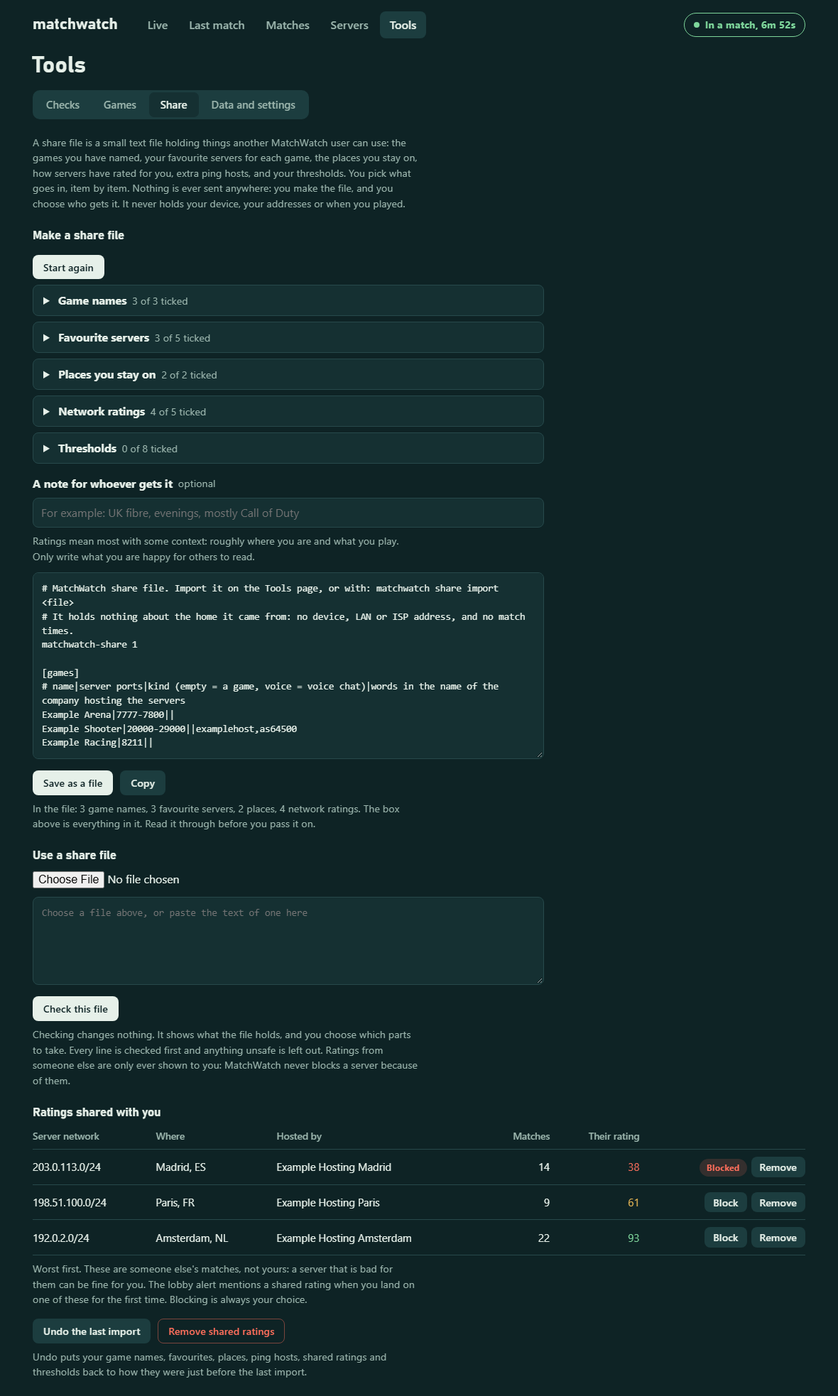
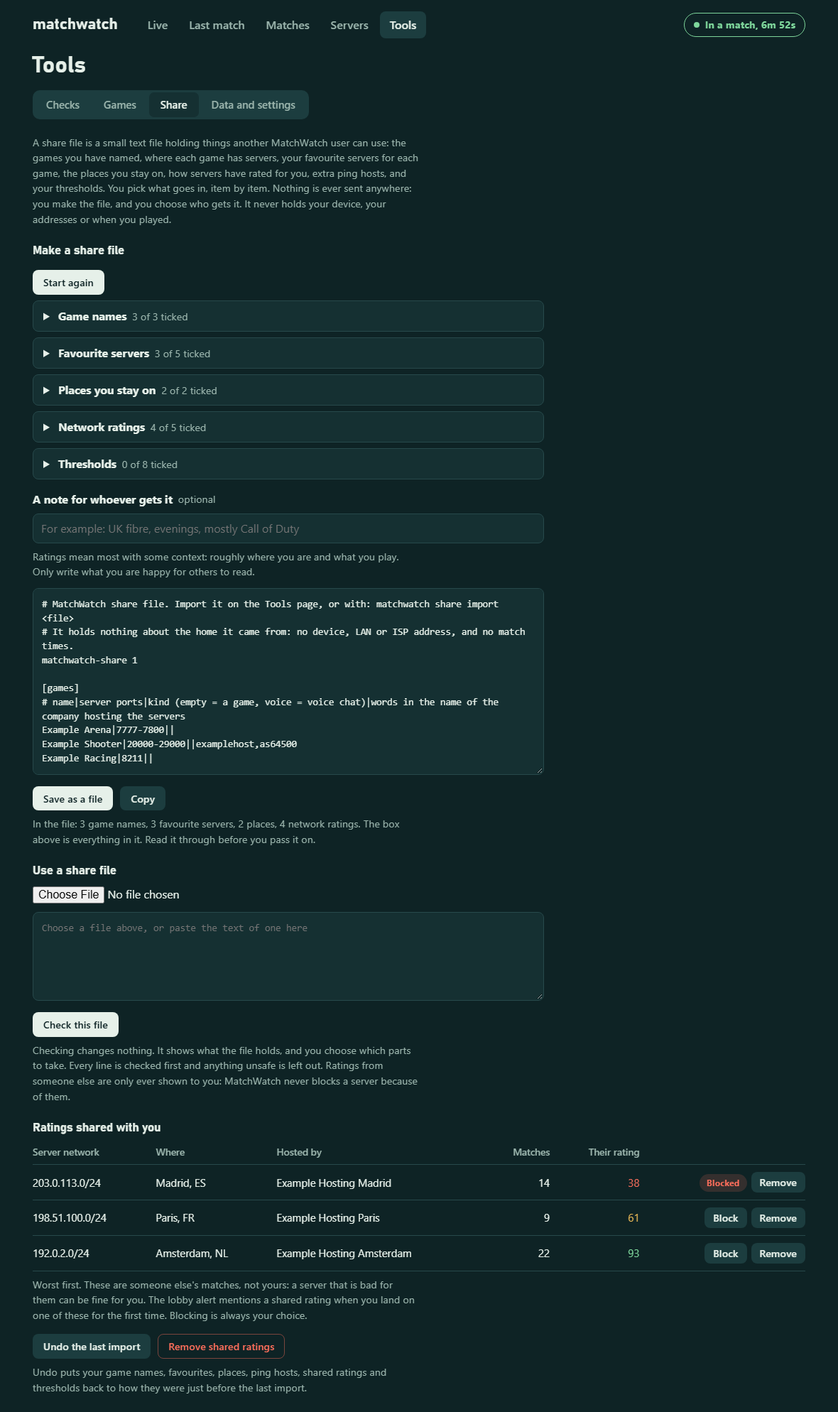
0.21.0: where each game plays, learned and shareable
MatchWatch keeps a list of the places and server networks each game uses,
from matches and from servers a game reaches for. The Servers page shows it,
stay mode warns when a game has nothing known in the pool, and share files
carry it as a new section. Shared entries inform only. The match history is
kept to its newest 5000 matches.

diff --git a/luci-app-matchwatch/htdocs/luci-static/resources/matchwatch/dashboard.js b/luci-app-matchwatch/htdocs/luci-static/resources/matchwatch/dashboard.js
@@ -20,7 +20,7 @@ shadow.appendChild(sheet); shadow.appendChild(wrap);
 var RO = !!T.readonly;
 function setDark() { wrap.classList.toggle("dark", T.dark ? !!T.dark() : !!(window.matchMedia && matchMedia("(prefers-color-scheme: dark)").matches)); }
 setDark(); sheet.addEventListener("load", function () { setDark(); updateLive(); });
-var D = { st: null, hist: [], servers: [], dcs: [], blocks: [], info: {}, lobby: null, regions: [], favs: [], favInfo: {} };
+var D = { st: null, hist: [], servers: [], dcs: [], blocks: [], info: {}, lobby: null, regions: [], favs: [], favInfo: {}, gp: [] };
 var page = "", pageArg = "", armed = 0, view = shadow.getElementById("view");
 
 // ---------- small helpers
@@ -216,6 +216,48 @@ function namePrompt(redraw) {
 		box.appendChild(bn);
 	});
 	return box;
+}
+
+// ---------- where each game plays: learned from your matches, from servers the game tried, and from share files
+var gpGame = "", gpAll = false;
+function gamePlacesSection() {
+	var box = h("div");
+	box.appendChild(h("h2", "Where each game plays"));
+	var rows = D.gp || [];
+	if (!rows.length) { box.appendChild(h("p", { cls: "empty", text: "Nothing learned yet. Each match, and each server a game tries, adds to this. Share files from other players add the rest of the world." })); return box; }
+	var games = []; rows.forEach(function (r) { if (games.indexOf(r.game) < 0) games.push(r.game); }); games.sort();
+	if (games.indexOf(gpGame) < 0) gpGame = "";
+	var staying = (D.info.stays || []).length > 0;
+	if (games.length > 1) {
+		var sel = h("select", { "aria-label": "Show one game" }); sel.appendChild(h("option", { value: "", text: "Every game" }));
+		games.forEach(function (g) { var o = h("option", { value: g, text: g }); if (g === gpGame) o.selected = true; sel.appendChild(o); });
+		sel.addEventListener("change", function () { var y = window.scrollY; gpGame = sel.value; gpAll = false; pageServers(); window.scrollTo(0, y); });
+		box.appendChild(h("div", { cls: "stayform" }, sel));
+	}
+	var list = rows.filter(function (r) { return !gpGame || r.game === gpGame; }).sort(function (a, b) { return a.game < b.game ? -1 : a.game > b.game ? 1 : (b.matches - a.matches) || (b.networks - a.networks); });
+	var heads = [["Game"], ["Where"], ["Hosted by"], ["Server networks", "num"], ["Matches", "num"], ["Rating", "num"], ["Known from"]];
+	if (staying) heads.push(["In your places"]);
+	var t = table(heads);
+	(gpAll ? list : list.slice(0, 12)).forEach(function (r) {
+		var net = h("td", { cls: "num", text: String(r.networks) }); net.title = (r.nets || []).join(", ") + (r.networks > (r.nets || []).length ? " and more" : "");
+		var cells = [[r.game], [place(r) || "Place not known"], [r.org || ""], net, [r.matches ? String(r.matches) : "", "num"], [r.rating == null ? "" : String(r.rating), "num s " + cls(r.rating)], [r.mine ? (r.matches ? "Your matches" : "Tried by the game") : "Shared with you"]];
+		if (staying) cells.push([r.in == null ? "Not known" : r.in ? "Yes" : "No"]);
+		t.lastChild.appendChild(row(cells));
+	});
+	box.appendChild(h("div", { cls: "tablewrap" }, t));
+	var btns = h("div", { cls: "actions" });
+	if (list.length > 12) { var more = h("button", { type: "button", text: gpAll ? "Show fewer" : "Show all " + list.length }); more.addEventListener("click", function () { var y = window.scrollY; gpAll = !gpAll; pageServers(); window.scrollTo(0, y); }); btns.appendChild(more); }
+	if (rows.some(function (r) { return !r.mine; })) btns.appendChild(act("Remove what others shared", "shareforgetgs", null, { danger: true, confirm: "Confirm: remove shared game servers" }));
+	if (btns.childNodes.length) box.appendChild(btns);
+	box.appendChild(h("p", { cls: "note", text: "One row per game and place. A server network is a block of 256 addresses; hover the number to see them. Your own router only learns the places a game offers you, which are mostly near home. To learn the rest of the world, take in share files from players elsewhere, and pass yours on from Tools, Share." }));
+	return box;
+}
+// for a game with no published host list: is anything known for it inside the places being stayed on?
+function gameCoverNotes() {
+	var by = {}, out = [];
+	(D.gp || []).forEach(function (r) { var g = by[r.game] || (by[r.game] = { inn: 0, places: [] }); if (r.in) g.inn++; else { var p = place(r); if (p && g.places.indexOf(p) < 0) g.places.push(p); } });
+	Object.keys(by).sort().forEach(function (g) { if (!by[g].inn && by[g].places.length) out.push(g + ": no server known in your places. Known in " + by[g].places.slice(0, 5).join("; ") + (by[g].places.length > 5 ? " and " + (by[g].places.length - 5) + " more" : "") + "."); });
+	return out;
 }
 
 // ---------- favourites: servers you want to find again, grouped by the game played on them
@@ -537,6 +579,7 @@ function pageServers() {
 				(c.suggest || []).forEach(function (s) { w.appendChild(act("Add " + s.name + " (about " + s.km + " km)", "staysuggest", s.n, { solid: true })); });
 				cov.appendChild(w);
 			}
+			gameCoverNotes().forEach(function (s) { cov.appendChild(h("p", { cls: "note low", text: s })); });
 			cov.appendChild(h("p", { cls: "note", text: (c.refusing ? "Whole regions are refused ahead of time for games hosted by " + c.hosts + ": " + c.refused + " of its " + c.known + " address ranges, for your gaming device only. " : "MatchWatch knows where the servers are for games hosted by " + c.hosts + ". ") + "Servers of any other game are turned away one at a time, as the game tries them, and MatchWatch cannot tell in advance whether such a game has servers in your places." }));
 		});
 		if (stays.length > 1) {
@@ -568,6 +611,7 @@ function pageServers() {
 	view.appendChild(h("p", { cls: "note", text: "Type one place or several, separated by commas: cities, countries, or these areas: uk-ireland, western-europe, southern-europe, northern-europe, eastern-europe, europe, north-america, south-america, middle-east, asia, oceania. A city allows servers within about 150 km of it; a country or area allows any server located there. Several places make one pool, and the game picks among them, which keeps queues shorter than a single place." }));
 	}
 	view.appendChild(favSection());
+	view.appendChild(gamePlacesSection());
 	view.appendChild(h("h2", "Datacentres, worst first"));
 	if (!D.dcs.length) view.appendChild(h("p", { cls: "empty", text: "No datacentres seen yet." }));
 	else {
@@ -655,7 +699,7 @@ function downloadHistory() {
 	setTimeout(function () { URL.revokeObjectURL(a.href); }, 5000);
 }
 // ---------- share files: game names, places, ratings, ping hosts and thresholds as a text file to pass on
-var SHARE = [["games", "1", "Game names"], ["favourites", "6", "Favourite servers"], ["places", "3", "Places you stay on"], ["ratings", "4", "Network ratings"], ["regions", "2", "Ping hosts for the regions table"], ["settings", "5", "Thresholds"], ["favplaces", "7", "Stay near those servers"]];
+var SHARE = [["games", "1", "Game names"], ["favourites", "6", "Favourite servers"], ["places", "3", "Places you stay on"], ["gameservers", "9", "Game servers by place"], ["ratings", "4", "Network ratings"], ["regions", "2", "Ping hosts for the regions table"], ["settings", "5", "Thresholds"], ["favplaces", "7", "Stay near those servers"]];
 function saveText(name, text) {
 	var a = document.createElement("a");
 	a.href = URL.createObjectURL(new Blob([text], { type: "text/plain" }));
@@ -690,11 +734,15 @@ function shareItem(sec, line) {
 		o.text = (o.fav ? "\u2605 " : "") + o.game + ": " + f[0] + (o.city || o.cc ? ", " + [o.city, o.cc].filter(Boolean).join(", ") : "") + (f[4] && f[4].trim() ? ", " + f[4].trim() : "") + (o.avg == null ? "" : ": rated " + o.avg + " over " + o.n + " match" + (o.n === 1 ? "" : "es"));
 		o.on = o.fav;
 	}
+	else if (sec === "gameservers") {
+		o.game = f[0]; o.city = f[2] || ""; o.cc = f[3] && f[3] !== "-" ? f[3] : ""; o.n = +f[7] || 0; o.avg = f[8] === "" || f[8] == null ? null : +f[8];
+		o.text = o.game + ": " + f[1] + (o.city || o.cc ? ", " + [o.city, o.cc].filter(Boolean).join(", ") : "") + (f[4] && f[4].trim() ? ", " + f[4].trim() : "") + (o.n ? ": " + o.n + " match" + (o.n === 1 ? "" : "es") + (o.avg == null ? "" : ", rated " + o.avg) : ": tried by the game, not played on");
+	}
 	else if (sec === "settings") { o.text = (SETNAME[f[0]] || f[0]) + ": " + f[1]; o.on = false; }
 	return o;
 }
 // the picker: one block per section, a tick per item, quick picks, a note, and a preview that is exactly the file
-var ONE = { games: "game name", favourites: "favourite server", regions: "ping host", places: "place", ratings: "network rating", settings: "threshold" };
+var ONE = { games: "game name", gameservers: "game server network", favourites: "favourite server", regions: "ping host", places: "place", ratings: "network rating", settings: "threshold" };
 function sharePicker(text, pickBox, made) {
 	var head = [], notes = {}, items = {}, sec = "", total = 0;
 	text.split("\n").forEach(function (l) {
@@ -738,16 +786,16 @@ function sharePicker(text, pickBox, made) {
 		counts[x[0]] = h("span", { cls: "pickcount" });
 		var inner = h("div"), blk = h("details", { cls: "pick" }, h("summary", { cls: "pickhead" }, h("b", x[2]), counts[x[0]]), inner);
 		inner.appendChild(h("div", { cls: "quick" }, all, none));
-		if ((x[0] === "ratings" || x[0] === "favourites") && its.length > 1) {
+		if ((x[0] === "ratings" || x[0] === "favourites" || x[0] === "gameservers") && its.length > 1) {
 			// quick picks: tick by several things at once; single ticks can still be changed after
-			var isFavs = x[0] === "favourites", sels = [];
+			var isFavs = x[0] === "favourites", byGame = isFavs || x[0] === "gameservers", sels = [];
 			var mk = function (label, opts, val) { var s = h("select", { "aria-label": label }); opts.forEach(function (o) { s.appendChild(h("option", { value: o[0], text: o[1] })); }); s.value = val; sels.push(s); return s; };
 			var uniq = function (key, pre, word) { var seen = []; its.forEach(function (i) { if (i[key] && seen.indexOf(i[key]) < 0) seen.push(i[key]); }); return seen.sort().map(function (v) { return [pre + v, word + v]; }); };
 			var qf = isFavs ? mk("Pick favourites or every server", [["fav", "My favourites"], ["", "Every server I have played on"]], its.some(function (i) { return i.fav; }) ? "fav" : "") : null;
-			var qg = isFavs ? mk("Pick by game", [["", "Any game"]].concat(uniq("game", "", "")), "") : null;
+			var qg = byGame ? mk("Pick by game", [["", "Any game"]].concat(uniq("game", "", "")), "") : null;
 			var qr = mk("Pick by rating", [["", "Any rating"], ["poor", "Poor: under 50"], ["fair", "Fair or worse: under 70"], ["good", "Good: 70 or more"], ["great", "Excellent: 85 or more"]], "");
 			var qp = mk("Pick by place", [["", "Anywhere"]].concat(uniq("cc", "c:", "Country: "), uniq("city", "t:", "City: ")), "");
-			var qn = mk("Pick by number of matches", [["0", "Any number of matches"], ["2", "2 or more matches"], ["3", "3 or more"], ["5", "5 or more"], ["10", "10 or more"]], isFavs ? "0" : "2");
+			var qn = mk("Pick by number of matches", [["0", "Any number of matches"], ["1", "Played on at least once"], ["2", "2 or more matches"], ["3", "3 or more"], ["5", "5 or more"], ["10", "10 or more"]], byGame ? "0" : "2");
 			var hid = h("p", { cls: "note" });
 			var apply = function () {
 				var out = 0, some = 0;
@@ -778,7 +826,7 @@ function sharePicker(text, pickBox, made) {
 }
 function shareSection() {
 	var box = h("div");
-	box.appendChild(h("p", { cls: "note", text: "A share file is a small text file holding things another MatchWatch user can use: the games you have named, your favourite servers for each game, the places you stay on, how servers have rated for you, extra ping hosts, and your thresholds. You pick what goes in, item by item. Nothing is ever sent anywhere: you make the file, and you choose who gets it. It never holds your device, your addresses or when you played." }));
+	box.appendChild(h("p", { cls: "note", text: "A share file is a small text file holding things another MatchWatch user can use: the games you have named, where each game has servers, your favourite servers for each game, the places you stay on, how servers have rated for you, extra ping hosts, and your thresholds. You pick what goes in, item by item. Nothing is ever sent anywhere: you make the file, and you choose who gets it. It never holds your device, your addresses or when you played." }));
 
 	// ---- make a file: the router lists everything that could be shared, and every item gets its own tick
 	box.appendChild(h("h3", "Make a share file"));
@@ -787,7 +835,7 @@ function shareSection() {
 	box.appendChild(h("div", { cls: "actions" }, mk)); box.appendChild(pickBox); box.appendChild(made);
 	mk.addEventListener("click", function () {
 		mk.disabled = true;
-		send({ action: "shareexport", arg: "123458" }).then(function (j) {
+		send({ action: "shareexport", arg: "1234589" }).then(function (j) {
 			mk.disabled = false;
 			if (!j.ok) { toast(j.out || "That did not work.", true); return; }
 			mk.textContent = "Start again";
@@ -1059,6 +1107,7 @@ function tick() { get("status.json", function (st) { D.st = st; setState(); upda
 function typing() { return Array.prototype.some.call(shadow.querySelectorAll("#place, input.keep, textarea.keep"), function (i) { return !!i.value; }); }
 function refresh(force) {
 	get("regions.json", function (x) { D.regions = x || []; });
+	get("gameplaces.json", function (x) { D.gp = x || []; });
 	var left = 6, done = function () { if (--left === 0 && (force || (!armed && !typing())) && page !== "live" && page !== "match" && page !== "tools") route(true); else if (left === 0 && page === "live") { L.ip = null; updateLive(); } };
 	get("history.json", function (x) { D.hist = x || []; done(); });
 	get("servers.json", function (x) { D.servers = x || []; done(); });
@@ -1069,6 +1118,7 @@ function refresh(force) {
 }
 window.addEventListener("hashchange", route);
 window.addEventListener("resize", function () { updateLive(); if (page === "match" && pageMatch.repaint) pageMatch.repaint(); });
+get("gameplaces.json", function (x) { D.gp = x || []; });
 var first = 6, boot = function () { if (--first === 0) route(); };
 get("history.json", function (x) { D.hist = x || []; boot(); }); get("servers.json", function (x) { D.servers = x || []; boot(); }); get("datacentres.json", function (x) { D.dcs = x || []; boot(); });
 get("blocklist.json", function (x) { D.blocks = x || []; boot(); }); get("info.json", function (x) { D.info = x || {}; boot(); }); get("favourites.json", function (x) { setFavs(x); boot(); });

diff --git a/test/mockshots.py b/test/mockshots.py
@@ -92,9 +92,16 @@ def build(site):
     blocks = [{"ip": DCS["mad"][5][0].rsplit(".", 1)[0] + ".0/24", "days": None, "reason": "stay"}, {"ip": "203.0.113.77", "days": 12, "reason": "manual"}]
     for s in servers: s["blocked"] = s["ip"] == "203.0.113.77"
     out = {"history": hist, "servers": servers, "datacentres": dlist, "regions": rj, "blocklist": blocks,
-           "info": {"version": "0.20.1", "device": "192.168.1.50", "stay": "Germany + Sweden", "autoblock": False, "notify": True, "pc_score": True, "geo": True, "block_days": 14, "stays": ["Germany", "Sweden"], "web": False, "qosmate": True, "away": 412}}
+           "info": {"version": "0.21.0", "device": "192.168.1.50", "stay": "Germany + Sweden", "autoblock": False, "notify": True, "pc_score": True, "geo": True, "block_days": 14, "stays": ["Germany", "Sweden"], "web": False, "qosmate": True, "away": 412}}
     out["favourites"] = [servers[-1]["ip"], servers[-2]["ip"], servers[-4]["ip"]]
     out["mygames"] = [{"name": "Example Arena", "ports": "7777-7800", "kind": "", "hosts": ""}, {"name": "Example Shooter", "ports": "20000-29000", "kind": "", "hosts": "examplehost,as64500"}, {"name": "Not a game", "ports": "19306", "kind": "voice", "hosts": ""}]
+    out["gameplaces"] = [
+        {"game": "Example Shooter", "city": "Frankfurt", "cc": "DE", "org": "Example Hosting Frankfurt", "networks": 3, "nets": ["203.0.113.0/24"], "matches": 7, "rating": 75, "mine": True, "in": True},
+        {"game": "Example Shooter", "city": "Madrid", "cc": "ES", "org": "Example Hosting Madrid", "networks": 2, "nets": ["192.0.2.0/24"], "matches": 2, "rating": 100, "mine": True, "in": False},
+        {"game": "Example Arena", "city": "Stockholm", "cc": "SE", "org": "Example Hosting Stockholm", "networks": 2, "nets": ["198.51.100.0/24"], "matches": 3, "rating": 100, "mine": True, "in": True},
+        {"game": "Example Shooter", "city": "Paris", "cc": "FR", "org": "Example Hosting Paris", "networks": 1, "nets": ["198.51.100.0/24"], "matches": 0, "rating": None, "mine": True, "in": False},
+        {"game": "Example Shooter", "city": "Tokyo", "cc": "JP", "org": "Example Hosting Tokyo", "networks": 6, "nets": ["203.0.113.0/24"], "matches": 41, "rating": 88, "mine": False, "in": False},
+        {"game": "Example Arena", "city": "Sydney", "cc": "AU", "org": "Example Hosting Sydney", "networks": 4, "nets": ["192.0.2.0/24"], "matches": 17, "rating": 92, "mine": False, "in": False}]
     out["coverage"] = {"hosts": "Vultr (Call of Duty)", "known": 441, "refusing": True, "refused": 412, "places": [{"name": "Germany", "ranges": 26}, {"name": "Sweden", "ranges": 2}], "suggest": []}
     out["shared"] = {"undo": True, "have": {"games": 3, "regions": 0, "places": 2, "ratings": 6},
                      "ratings": [{"p": "203.0.113.0/24", "n": 14, "avg": 38, "city": "Madrid", "cc": "ES", "org": "Example Hosting Madrid", "blocked": True},
@@ -193,7 +200,7 @@ if __name__ == "__main__":
         print(f"http://127.0.0.1:{PORT}/matchwatch/"); srv.serve_forever()
     threading.Thread(target=srv.serve_forever, daemon=True).start()
     os.makedirs(ROOT + "/docs", exist_ok=True)
-    for route, name, h in (("#/", "live", 1400), (f"#/match/{bad}", "match-report", 2600), ("#/matches", "matches", 2600), ("#/servers", "servers-pool", 4600), ("#/tools", "tools", 2200), ("#/tools/share", "share", 4200)):
+    for route, name, h in (("#/", "live", 1400), (f"#/match/{bad}", "match-report", 2600), ("#/matches", "matches", 2600), ("#/servers", "servers-pool", 5200), ("#/tools", "tools", 2200), ("#/tools/share", "share", 4200)):
         shoot(browser, route, f"{ROOT}/docs/{name}.png", h)
     srv.shutdown()
     shutil.rmtree(site, ignore_errors=True)

diff --git a/build.py b/build.py
@@ -63,7 +63,7 @@ if [ "$1" = remove ] || [ "$1" = purge ]; then
 	rmdir @DIRS@ 2>/dev/null
 	[ -z "$R" ] && luci_refresh
 	if [ "$1" = purge ]; then
-		rm -f "$R/etc/config/matchwatch" "$R/etc/matchwatch/config" "$R/etc/matchwatch/config.imported" "$R/etc/matchwatch/sessions.tsv" "$R/etc/matchwatch/blocklist" "$R/etc/matchwatch/geo.cache" "$R/etc/matchwatch/last.txt" "$R/etc/matchwatch/token" "$R/etc/matchwatch/stay" "$R/etc/matchwatch/regions.tsv" "$R/etc/matchwatch/games.local" "$R/etc/matchwatch/regions.local" "$R/etc/matchwatch/ratings.shared" "$R/etc/matchwatch/favourites" "$R/etc/matchwatch/ranges.cache" "$R/etc/matchwatch/cities.cache" "$R/etc/matchwatch/geofeeds.local"
+		rm -f "$R/etc/config/matchwatch" "$R/etc/matchwatch/config" "$R/etc/matchwatch/config.imported" "$R/etc/matchwatch/sessions.tsv" "$R/etc/matchwatch/blocklist" "$R/etc/matchwatch/geo.cache" "$R/etc/matchwatch/last.txt" "$R/etc/matchwatch/token" "$R/etc/matchwatch/stay" "$R/etc/matchwatch/regions.tsv" "$R/etc/matchwatch/games.local" "$R/etc/matchwatch/regions.local" "$R/etc/matchwatch/ratings.shared" "$R/etc/matchwatch/favourites" "$R/etc/matchwatch/tried" "$R/etc/matchwatch/gameplaces.shared" "$R/etc/matchwatch/ranges.cache" "$R/etc/matchwatch/cities.cache" "$R/etc/matchwatch/geofeeds.local"
 		rm -rf "$R/etc/matchwatch/share.undo"
 		for f in "$R"/etc/matchwatch/matches/*.json; do [ -f "$f" ] && rm -f "$f"; done
 		rmdir "$R/etc/matchwatch/matches" 2>/dev/null

diff --git a/README.md b/README.md
@@ -1,6 +1,6 @@
 # MatchWatch
 
-**Judges every online match from your OpenWrt router — v0.20.1 (pre-release)**
+**Judges every online match from your OpenWrt router — v0.21.0 (pre-release)**
 
 > **OpenWrt only.** MatchWatch runs on a router with [OpenWrt](https://openwrt.org/) firmware and appears inside LuCI, OpenWrt's web interface. It does not run on Windows, macOS, a games console, or a router with its maker's stock firmware. Nothing is installed on your PC or console.
 
@@ -218,6 +218,7 @@ Make one, or use one, under **Share with other players** on the Tools page.
 |---|---|---|
 | Game names | The games you have named, with their server ports and, where needed, who hosts them | Adds them to your own names, so those games are recognised. A name you gave yourself always wins |
 | Places you stay on | Your pool of cities, countries and areas | Adds them to your pool and turns staying on |
+| Game servers by place | Where each game has put you or tried to: the game, the server network, its city, country and host, your matches there and their rating | Adds them to **Where each game plays** on the Servers page, marked "Shared with you". Nothing is blocked or allowed because of them |
 | Favourite servers | Servers you have starred, each with its game, where it is and how it has rated for you. You can also include servers you have not starred, picked by game, rating, place or number of matches | Adds them to the other person's favourites under the same games. They can also choose **Stay near those servers**, which adds the servers' cities to the places they stay on |
 | Network ratings | How each server network has rated for you: number of matches and average rating | Shows them in a table on the Tools page, and the lobby alert mentions one when you land on that network for the first time |
 | Ping hosts | Extra test hosts for the regions table, for hosting companies other than Vultr | Adds them to the regions table and measures them |
@@ -324,6 +325,18 @@ Ratings, the regions table, the hour chart and the recap are rebuilt without wha
 A favourite cannot be removed by accident. A favourite server shows **Kept** where Remove would be, and removing its datacentre is refused. Take the star off first.
 
 From the command line: `matchwatch forget match <start time>`, `forget server <ip>`, `forget dc <number>`.
+
+## Where each game plays
+
+MatchWatch keeps a list of where every game has servers. It builds it from your matches and from the servers a game reaches for without your playing on them, and it shows on the Servers page: one row per game and place, with the host, how many server networks are known there, your matches and rating, and, when you are staying on places, whether that place is in your pool.
+
+Your own router only learns the places a game offers you, which are mostly near home. The rest of the world comes from other players: the **Game servers by place** section of a share file carries the game, the server network, its city, country and host, and how it rated. Take in a file from someone in another region and their places appear in your list, marked "Shared with you". Pass yours on and they learn yours. See [Sharing with other players](#sharing-with-other-players).
+
+- When you stay on places, a game with nothing known inside them is called out, with where it is known to have servers.
+- Shared entries are information. Nothing is blocked or allowed because of them.
+- A share file holds public game server networks only, and nothing about you.
+
+Storage stays small. The list needs no log of its own: it is worked out from the match history, plus one short line per server network a game tried (at most 2,000) and what you have imported (at most 5,000 networks, about 400 KB). The match history itself is kept to the newest 5,000 matches, under 2 MB.
 
 ## Favourites
 

diff --git a/CLAUDE.md b/CLAUDE.md
@@ -1,6 +1,6 @@
 # matchwatch: notes for whoever works on this next
 
-matchwatch runs on an OpenWrt router and judges each online match: the game server, the route to it, the player's own line and their PC. It works from packet timing only and never alters game traffic. Version 0.20.1.
+matchwatch runs on an OpenWrt router and judges each online match: the game server, the route to it, the player's own line and their PC. It works from packet timing only and never alters game traffic. Version 0.21.0.
 
 ## Layout
 
@@ -38,6 +38,8 @@ QoSmate match record (0.18.0): `qm_loop` (started by `_probe_start`) saves cake'
 Unnamed ports (0.18.0): a stream on a port with no label is kept only if at least 120 s were analysed and under 15% of updates were missing; otherwise it is dropped at `session_end`, logged, and listed in `skipped.json` with a reason. The 15% line comes from a single real example (a 42 s stream at 28%), so expect to tune it. No match-started alert is sent for an unnamed port.
 
 Whole ranges (0.20.0): with stay mode on, `stay_ranges` (always started in the background; the first run does about forty city lookups) downloads the lists in `geofeeds.list` and `geofeeds.local` into `ranges.cache`, places each city with Open-Meteo (`cities.cache`), and loads every range outside the pool into the nftables set `away`. Two rules refuse UDP between `device_ip` and that set; `nft_ready` rebuilds the table when the device changes. `cmd_lobby` returns early for a server already in `away`. Seen on the router: the Vultr list downloads, the city lookup takes a country code, and an interval set with `auto-merge` accepts overlapping ranges. `ranges_cover` writes `coverage.json`: how many known ranges each place in the pool holds, and for a place with none the three nearest cities that have servers (`coverage.sug`, added with the `staysuggest` action; country centres come from `countries.list`). The owner chose a country with no servers and had no way to know. Not yet seen: whether the game then finds a match faster.
+
+Where each game plays (0.21.0): `report.awk` MODE `gameplaces` groups game and /24 from `sessions.tsv`, from `tried` (written by `tried_note` in `cmd_lobby`: network, port, city, country, host, AS, position, count, last seen; 2,000 lines at most) and, for the dashboard only, from `gameplaces.shared` (imported, 5,000 lines at most). `ARG=share` prints your own for the `[gameservers]` share section; `ARG=json` writes `gameplaces.json` with an `in` flag when a stay pool is set. Shared entries never reach the `blocked` or `away` sets. `sessions.tsv` is trimmed to its newest 5,000 lines in `cmd_after`; the owner wants total storage well under 20 to 30 MB for small routers.
 
 ## Rules that have bitten already
 
